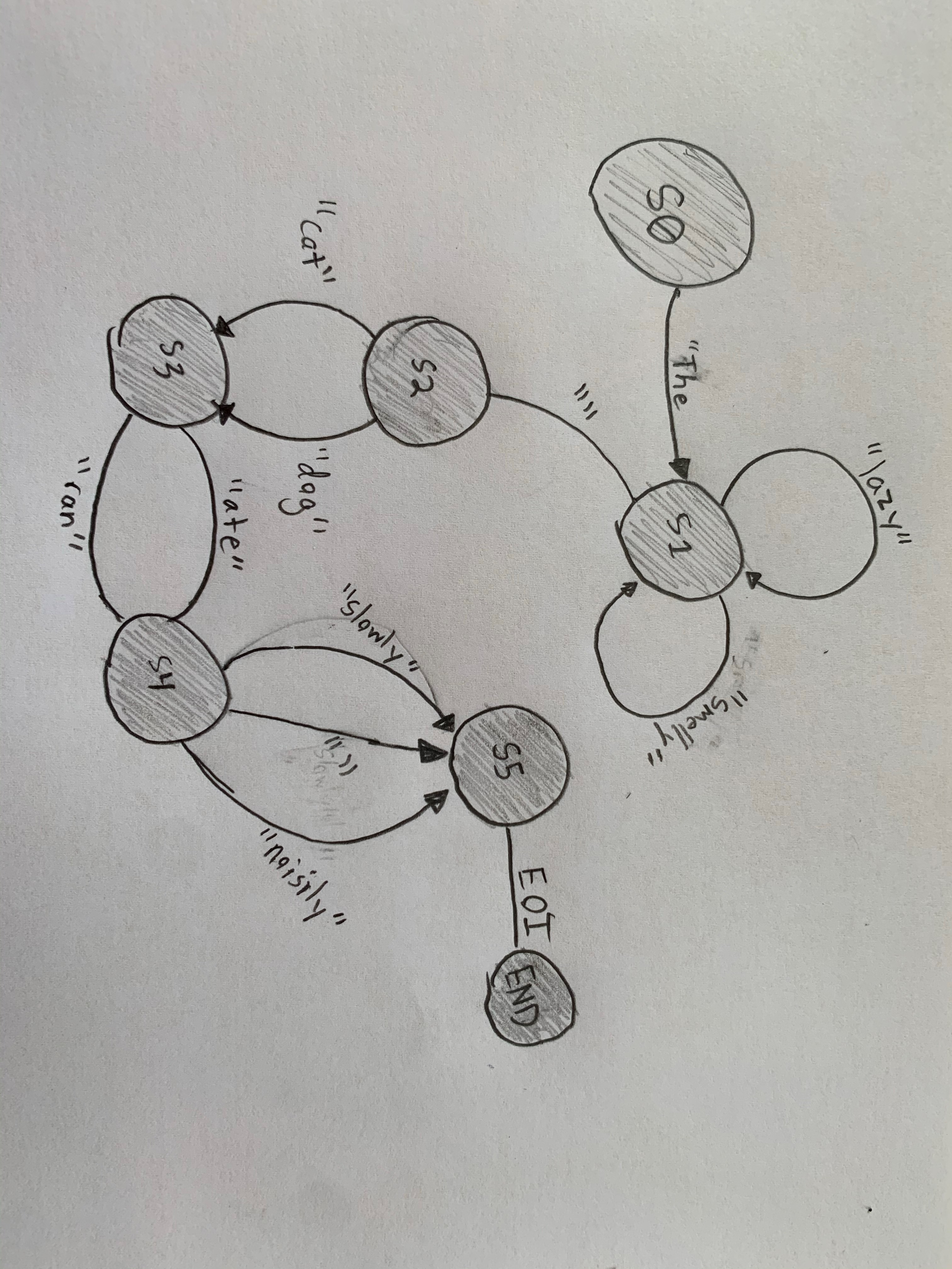
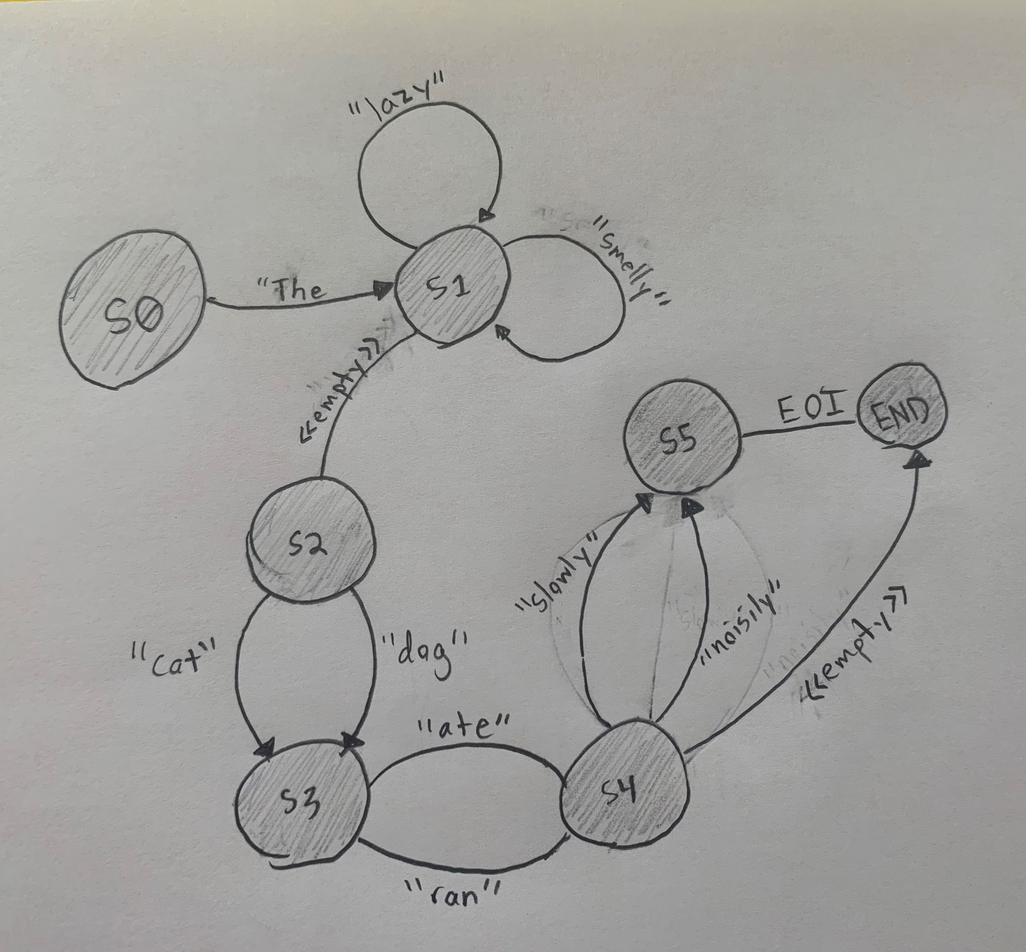
Update FSM_Diagram and table

diff --git a/README.md b/README.md
@@ -136,18 +136,18 @@ Current state | Next word | Next state
 
 |Current state | Next word | Next state|
 |--------------|-----------|-----------|
-|S0 |    the    |     S1|
-|S1        |   lazy  |     S1|
-|    S1        |  smelly |     S1|
-|    S1        |    ""     |     S2|
-|    S2        |   cat   |     S3|
-|    S2        |   dog   |     S3|
-|    S3        |   ate   |     S4|
-|    S3        |   ran   |     S4|
-|    S4        | slowly  |     S5|
-|    S4        | noisily |     S5|
-|    S4        |    ""     |     S5|
-|    S5        |    EOI    |     END|
+|      S0      |   the   |     S1      |
+|      S1      |   lazy  |     S1      |
+|      S1      |  smelly |     S1      |
+|      S1      |<<empty>>|     S2      |
+|      S2      |   cat   |     S3      |
+|      S2      |   dog   |     S3      |
+|      S3      |   ate   |     S4      |
+|      S3      |   ran   |     S4      |
+|      S4      | slowly  |     S5      |
+|      S4      | noisily |     S5      |
+|      S4      |    EOI  |    END      |
+|      S5      |    EOI  |    END      |
 
 
 
